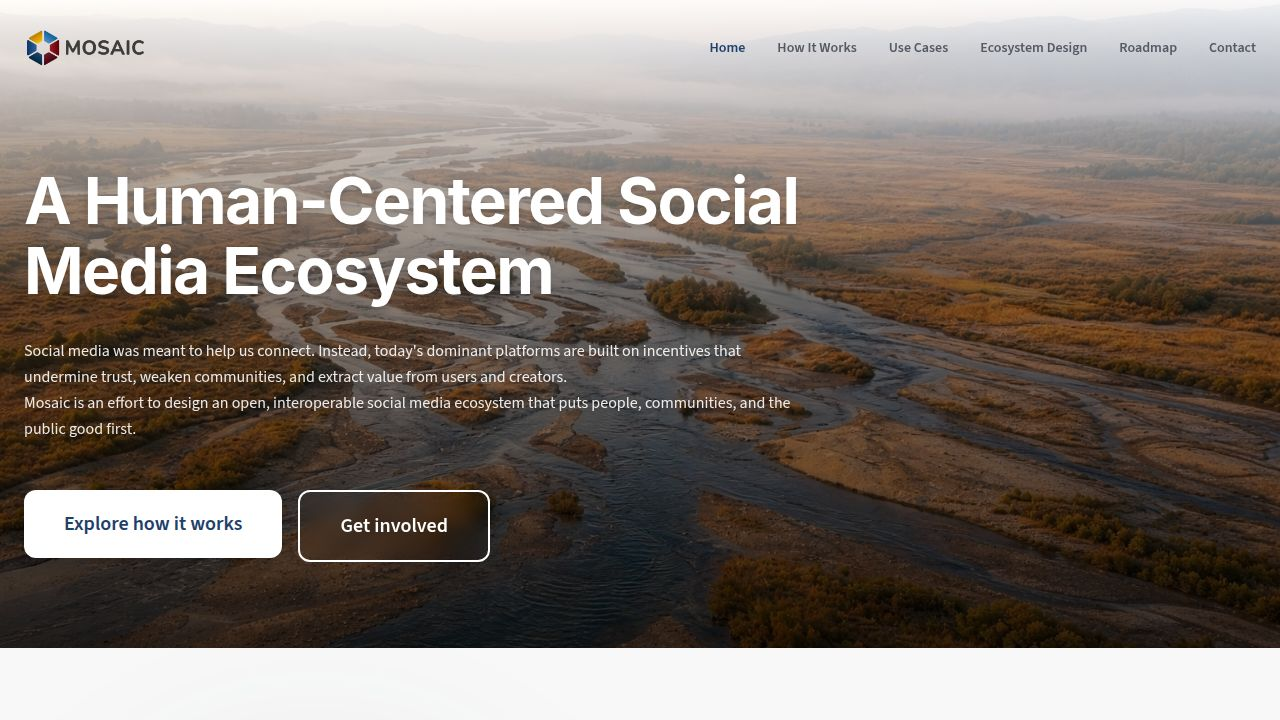
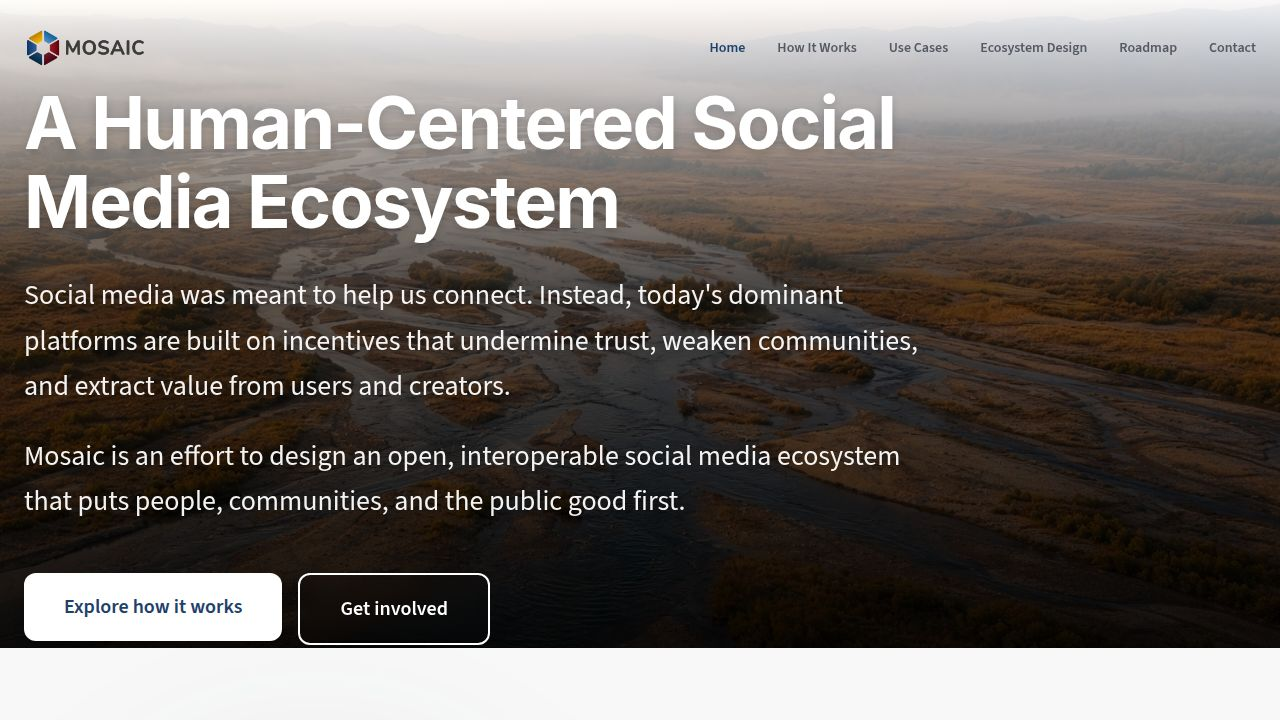
Improve hero section contrast and text size for better readability
Make the hero section gradient overlay darker and increase text size for improved contrast and legibility.

Replit-Commit-Author: Agent
Replit-Commit-Session-Id: 3ed6b3d5-8175-4899-a6de-d405bb2ed25c
Replit-Commit-Checkpoint-Type: full_checkpoint
Replit-Commit-Event-Id: 08a0d203-2727-4b7a-8a8f-c76dc24cb62e
Replit-Commit-Screenshot-Url: https://storage.googleapis.com/screenshot-production-us-central1/6405606b-323a-4379-a54f-016fb28d134d/3ed6b3d5-8175-4899-a6de-d405bb2ed25c/h0VeEPt
Replit-Helium-Checkpoint-Created: true

diff --git a/client/src/pages/home.tsx b/client/src/pages/home.tsx
@@ -21,16 +21,16 @@ export default function Home() {
             alt="Mosaic Ecosystem Landscape" 
             className="w-full h-full object-cover"
           />
-          {/* Gradient Overlay: White top for logo, Dark bottom for text */}
-          <div className="absolute inset-0 bg-gradient-to-b from-white/90 via-black/40 to-black/70" />
+          {/* Gradient Overlay: White top for logo, Darker bottom for text contrast */}
+          <div className="absolute inset-0 bg-gradient-to-b from-white/90 via-black/60 to-black/90" />
         </div>
         
         <div className="container mx-auto px-4 md:px-6 relative z-10 text-center md:text-left pt-20">
-          <div className="max-w-4xl">
-            <h1 className="text-4xl md:text-5xl lg:text-[64px] font-bold tracking-tight text-white leading-[1.1] mb-8 drop-shadow-md">
+          <div className="max-w-5xl">
+            <h1 className="text-4xl md:text-5xl lg:text-[72px] font-bold tracking-tight text-white leading-[1.1] mb-8 drop-shadow-lg">
               A Human-Centered Social Media Ecosystem
             </h1>
-            <div className="prose prose-2xl text-white/90 mb-12 max-w-3xl drop-shadow-sm leading-relaxed">
+            <div className="text-xl md:text-2xl lg:text-[28px] text-white/95 mb-12 max-w-4xl drop-shadow-md leading-relaxed font-light space-y-6">
               <p>
                 Social media was meant to help us connect. Instead, today's dominant platforms are built on incentives that undermine trust, weaken communities, and extract value from users and creators.
               </p>
